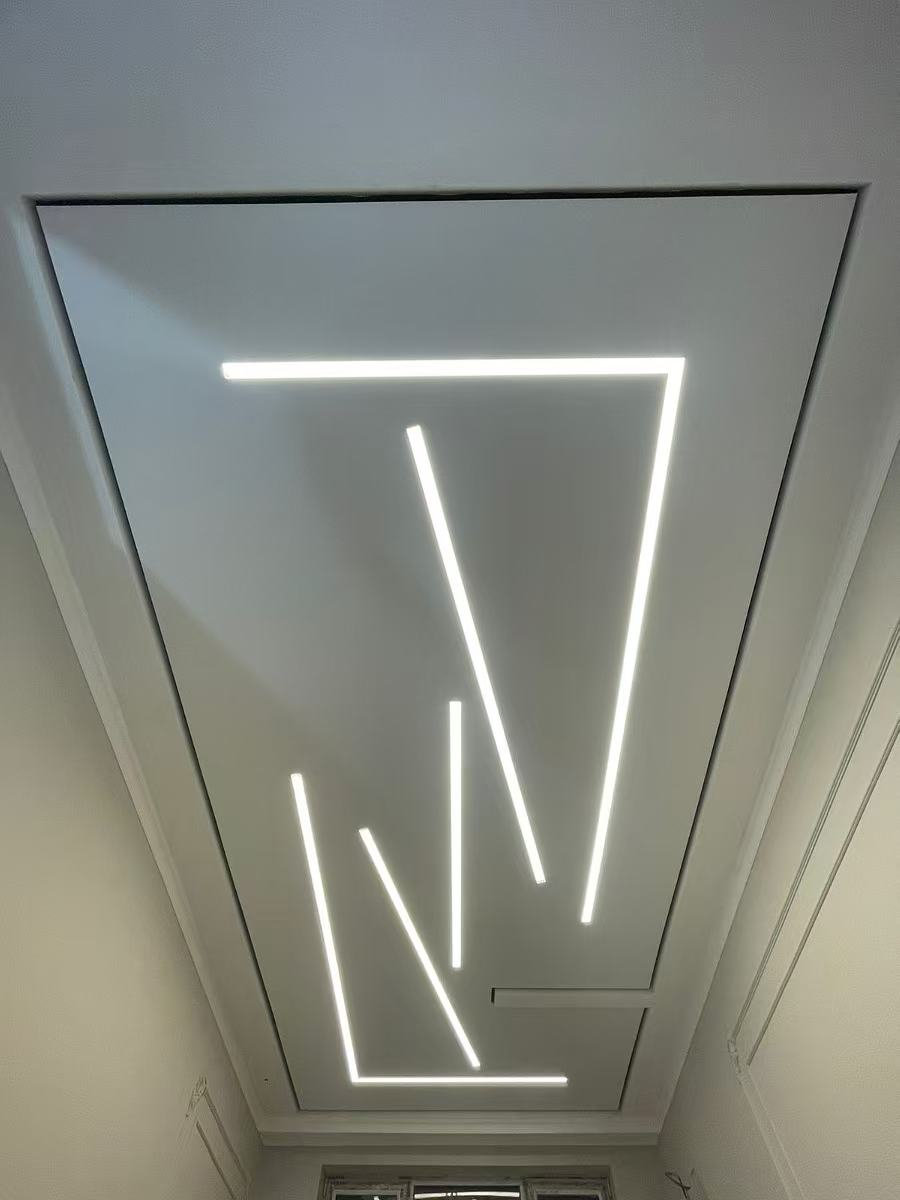
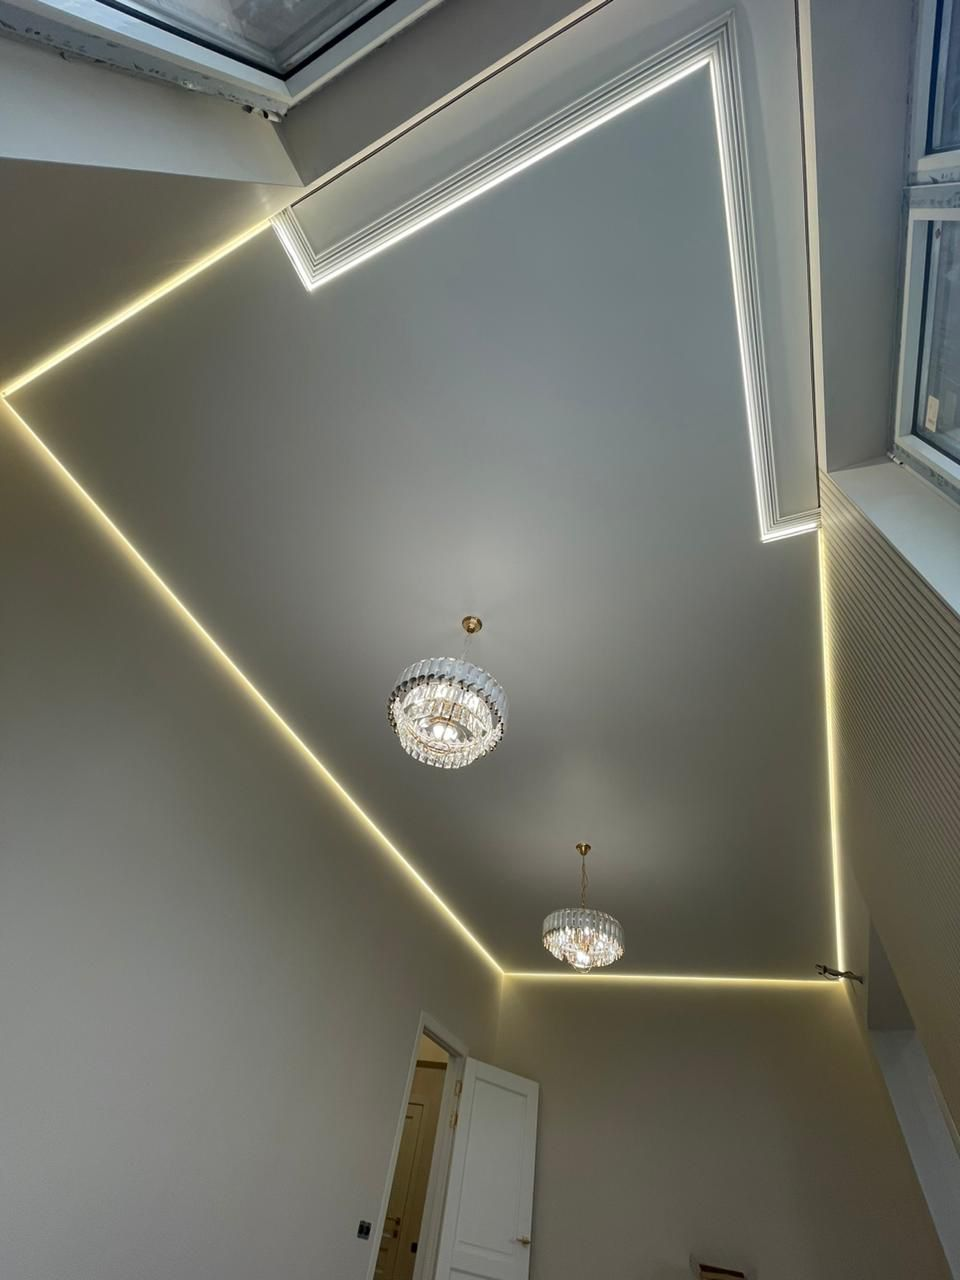
fix: замена фоток портфолио, исправление текста.

diff --git a/src/data/portfolio.ts b/src/data/portfolio.ts
@@ -31,8 +31,8 @@ export const portfolioItems: PortfolioItem[] = [
     imageAlt: 'Парящий натяжной потолок сложной геометрии с подсветкой',
     characteristics: [
       { label: 'Тип потолка', value: 'Матовый, парящий' },
-      { label: 'Освещение', value: 'LED-подсветка по периметру, декоративные линии' },
-      { label: 'Примыкание', value: 'Аккуратное примыкание к стенам' },
+      { label: 'Освещение', value: 'LED-подсветка по периметру, декоративные линии, слот система' },
+      { label: 'Примыкание', value: 'Теневой профиль' },
       { label: 'Особенности', value: 'Сложная геометрия, визуальный эффект легкости' },
     ],
   },
@@ -57,7 +57,7 @@ export const portfolioItems: PortfolioItem[] = [
     imageAlt: 'Натяжной потолок с теневым примыканием',
     characteristics: [
       { label: 'Тип потолка', value: 'Матовый, теневой' },
-      { label: 'Освещение', value: 'Точечные светильники, скрытая подсветка' },
+      { label: 'Освещение', value: 'Точечные светильники, скрытая подсветка, люстра' },
       { label: 'Примыкание', value: 'Теневой профиль' },
       { label: 'Особенности', value: 'Минимализм, чистые линии' },
     ],
@@ -71,19 +71,19 @@ export const portfolioItems: PortfolioItem[] = [
     characteristics: [
       { label: 'Тип потолка', value: 'Матовый' },
       { label: 'Освещение', value: 'Скрытая подсветка, встроенные светильники' },
-      { label: 'Примыкание', value: 'Аккуратное примыкание к стенам' },
+      { label: 'Примыкание', value: 'Теневой профиль' },
       { label: 'Особенности', value: 'Спокойный дизайн, равномерное освещение' },
     ],
   },
   {
     id: 'modern-shadow-ceiling',
     title: 'Теневой потолок в современном интерьере',
-    description: 'Матовое полотно с теневым профилем и мягкой контурной подсветкой. Такое решение делает стык потолка и стен аккуратным, а интерьер визуально более дорогим.',
+    description: 'Матовое полотно с теневым профилем и магнитными треками. Такое решение делает стык потолка и стен аккуратным, а интерьер визуально более дорогим.',
     image: getPortfolioImage('portfolio-05-tenevoe-primykanie.jpg'),
     imageAlt: 'Теневой потолок в современном интерьере',
     characteristics: [
       { label: 'Тип потолка', value: 'Матовый, теневой' },
-      { label: 'Освещение', value: 'Контурная подсветка' },
+      { label: 'Освещение', value: 'Магнитные треки' },
       { label: 'Примыкание', value: 'Теневой профиль' },
       { label: 'Особенности', value: 'Современный внешний вид, эффект чистого периметра' },
     ],
@@ -97,7 +97,7 @@ export const portfolioItems: PortfolioItem[] = [
     characteristics: [
       { label: 'Тип потолка', value: 'Матовый' },
       { label: 'Освещение', value: 'Встроенные световые линии' },
-      { label: 'Примыкание', value: 'Аккуратное примыкание к стенам' },
+      { label: 'Примыкание', value: 'Теневой профиль' },
       { label: 'Особенности', value: 'Дизайнерский свет, современный стиль' },
     ],
   },